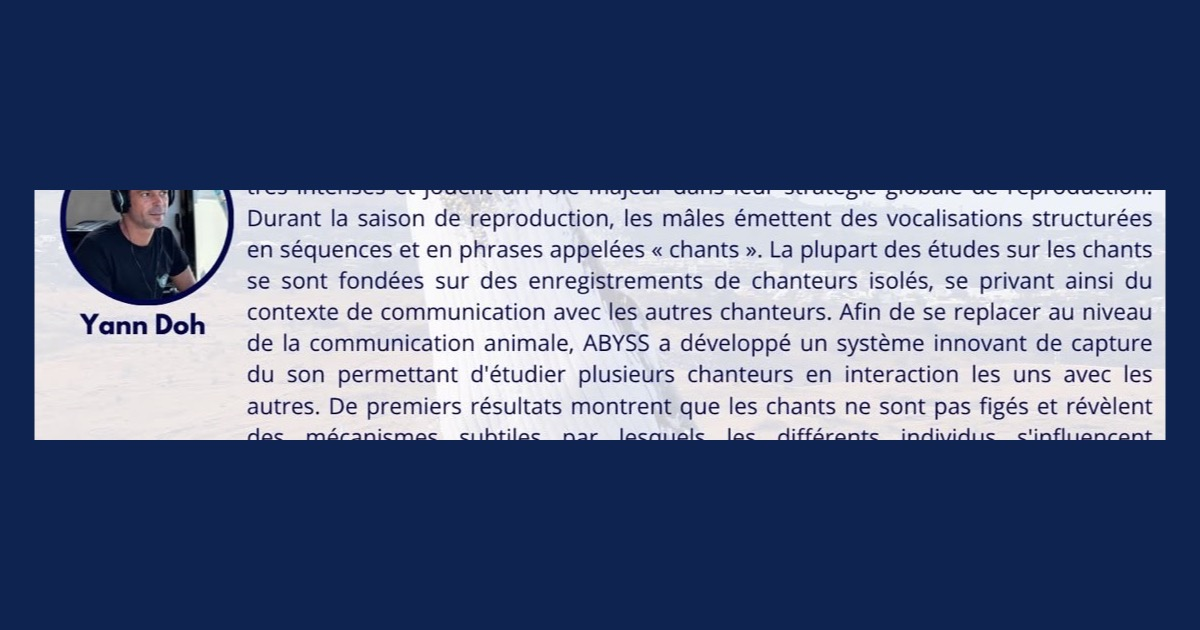
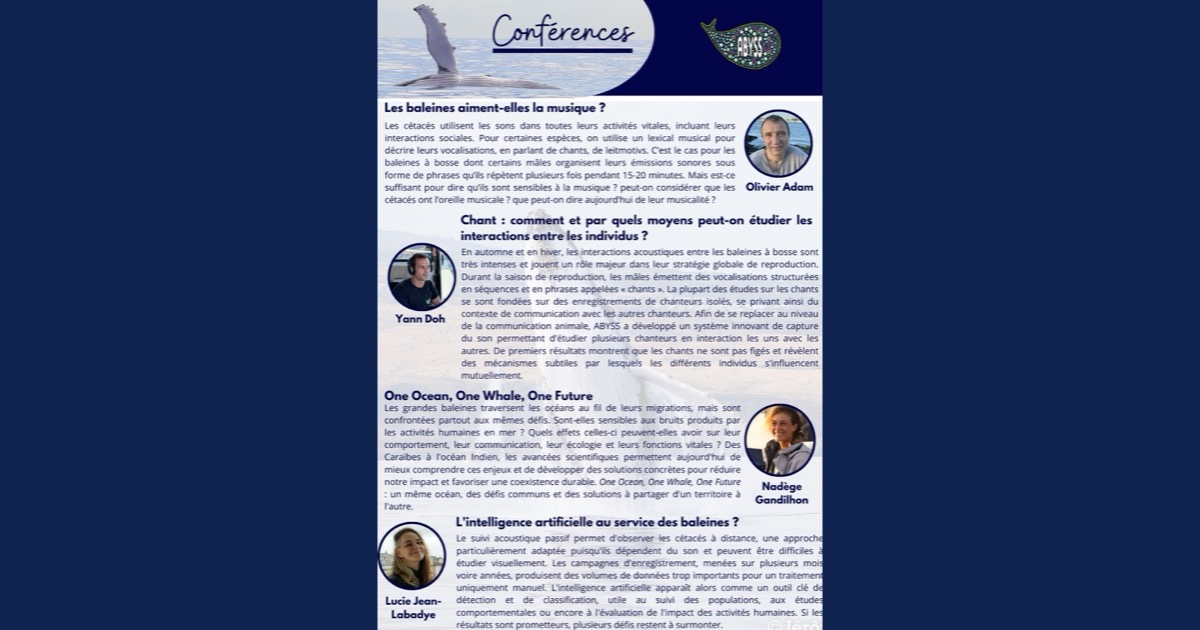
Conference entry: show the full flyer, uncropped, as cover and preview image

diff --git a/blog/2026-08-21-conference-bno-saint-gilles/index.html b/blog/2026-08-21-conference-bno-saint-gilles/index.html
@@ -45,8 +45,9 @@
     <div class="tags"><span class="tag">Conference</span><span class="tag">Réunion</span><span class="tag">Abyss</span></div>
   </header>
 
-  <figure class="cover">
-    <img src="media/cover.jpg" alt="Banner of the ABYSS conference programme: a humpback whale and the word Conférences">
+  <figure class="cover flyer">
+    <img src="media/flyer.jpg" alt="The ABYSS conference programme, in French">
+    <figcaption>The evening&rsquo;s programme, courtesy of ABYSS. Click to enlarge.</figcaption>
   </figure>
 
   <div class="prose">
@@ -55,10 +56,6 @@
     <p>Lucie Jean-Labadye, doctoral student in bioacoustics and AI, asked what artificial intelligence can do for whales. Passive acoustic monitoring lets researchers observe cetaceans at a distance, but campaigns lasting months or years produce far more recordings than anyone can analyse by hand. AI is becoming a key tool for detecting and classifying calls, for following populations, studying behaviour and assessing human impact, with promising results and open challenges.</p>
     <p>Yann Doh, Doctor of Bioacoustics, spoke about how the interactions between singing whales can be studied. In autumn and winter the acoustic exchanges between humpbacks are intense and central to their breeding, yet most studies of song have relied on recordings of lone singers. ABYSS has developed a recording system that captures several singers at once, and the first results show that songs are not fixed: individuals influence one another in subtle ways.</p>
     <p>Olivier Adam, bioacoustician and professor at Sorbonne University, asked whether whales like music. Cetaceans use sound in every part of their lives, and for some species we borrow musical words, songs and leitmotifs, to describe their calls. Male humpbacks arrange their sounds into phrases repeated for fifteen to twenty minutes at a stretch. Is that enough to say they are sensitive to music, or that they have a musical ear?</p>
-  </div>
-
-  <div class="gallery flyer" data-n="1">
-    <figure><img src="media/flyer.jpg" alt="The ABYSS conference programme, in French" loading="lazy"><figcaption>The evening&rsquo;s programme, courtesy of ABYSS. Click to enlarge.</figcaption></figure>
   </div>
 
   <div class="share">

diff --git a/blog/index.html b/blog/index.html
@@ -43,7 +43,7 @@
   <div class="year">2026</div>
 
   <a class="feature reveal" href="2026-08-21-conference-bno-saint-gilles/">
-    <img src="2026-08-21-conference-bno-saint-gilles/media/cover.jpg" alt="">
+    <img class="contain" src="2026-08-21-conference-bno-saint-gilles/media/cover.jpg" alt="">
     <div class="over">
       <div class="meta"><time datetime="2026-08-21">21 August 2026</time><span>Saint-Gilles Nautical Base, Réunion</span></div>
       <h2>Conference at the Saint Gilles Nautical Base, Reunion</h2>

diff --git a/blog/blog.css b/blog/blog.css
@@ -165,3 +165,6 @@ figcaption b{color:var(--foam-dim);font-weight:500}
 .entry .prose h3{font-family:var(--display);font-weight:400;font-size:1.6rem;margin:2.2rem 0 .8rem;color:var(--foam)}
 .gallery.flyer{max-width:560px;margin:2.4rem auto}
 .gallery.flyer img{aspect-ratio:auto;cursor:zoom-in}
+.cover.flyer{max-width:620px;margin:0 auto 3rem}
+.cover.flyer img{aspect-ratio:auto;object-fit:contain;cursor:zoom-in}
+.feature img.contain,.card img.contain{object-fit:contain;background:var(--deep)}
